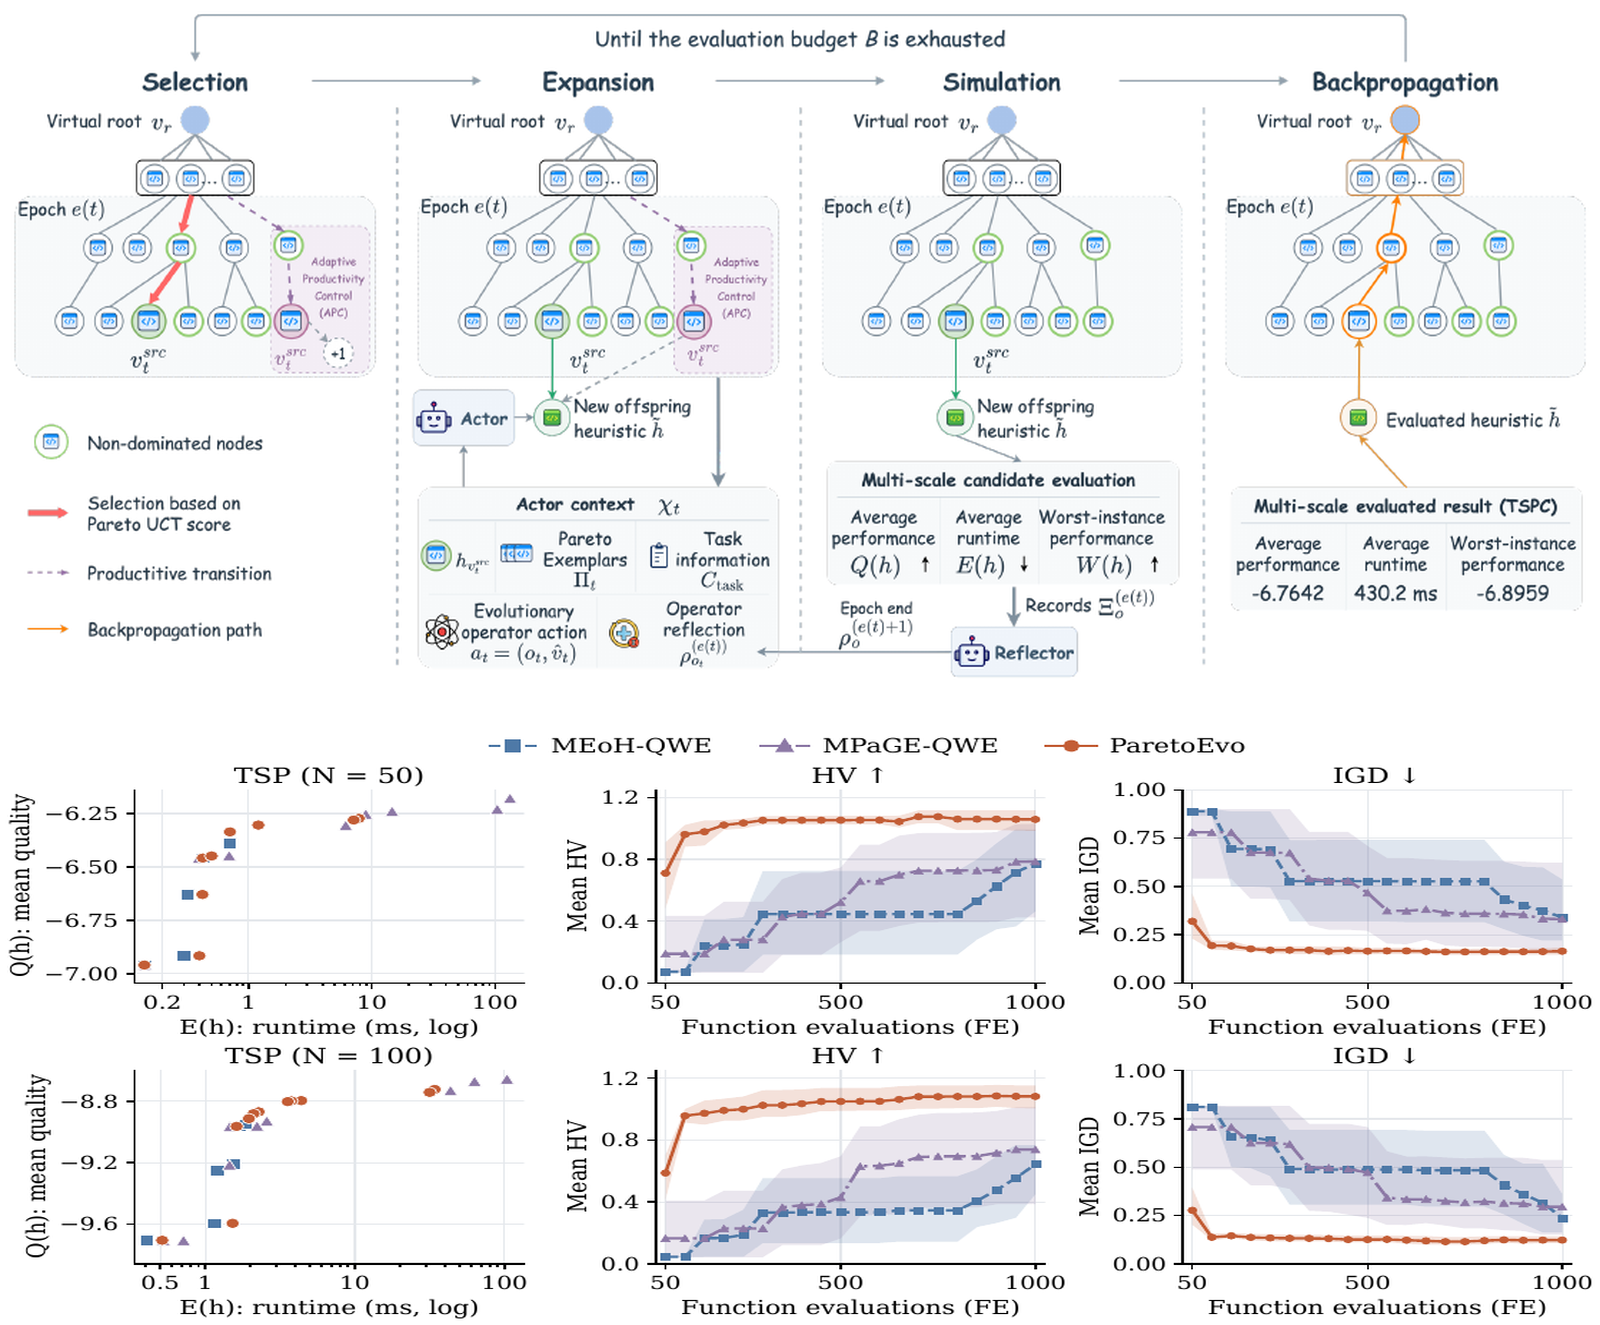
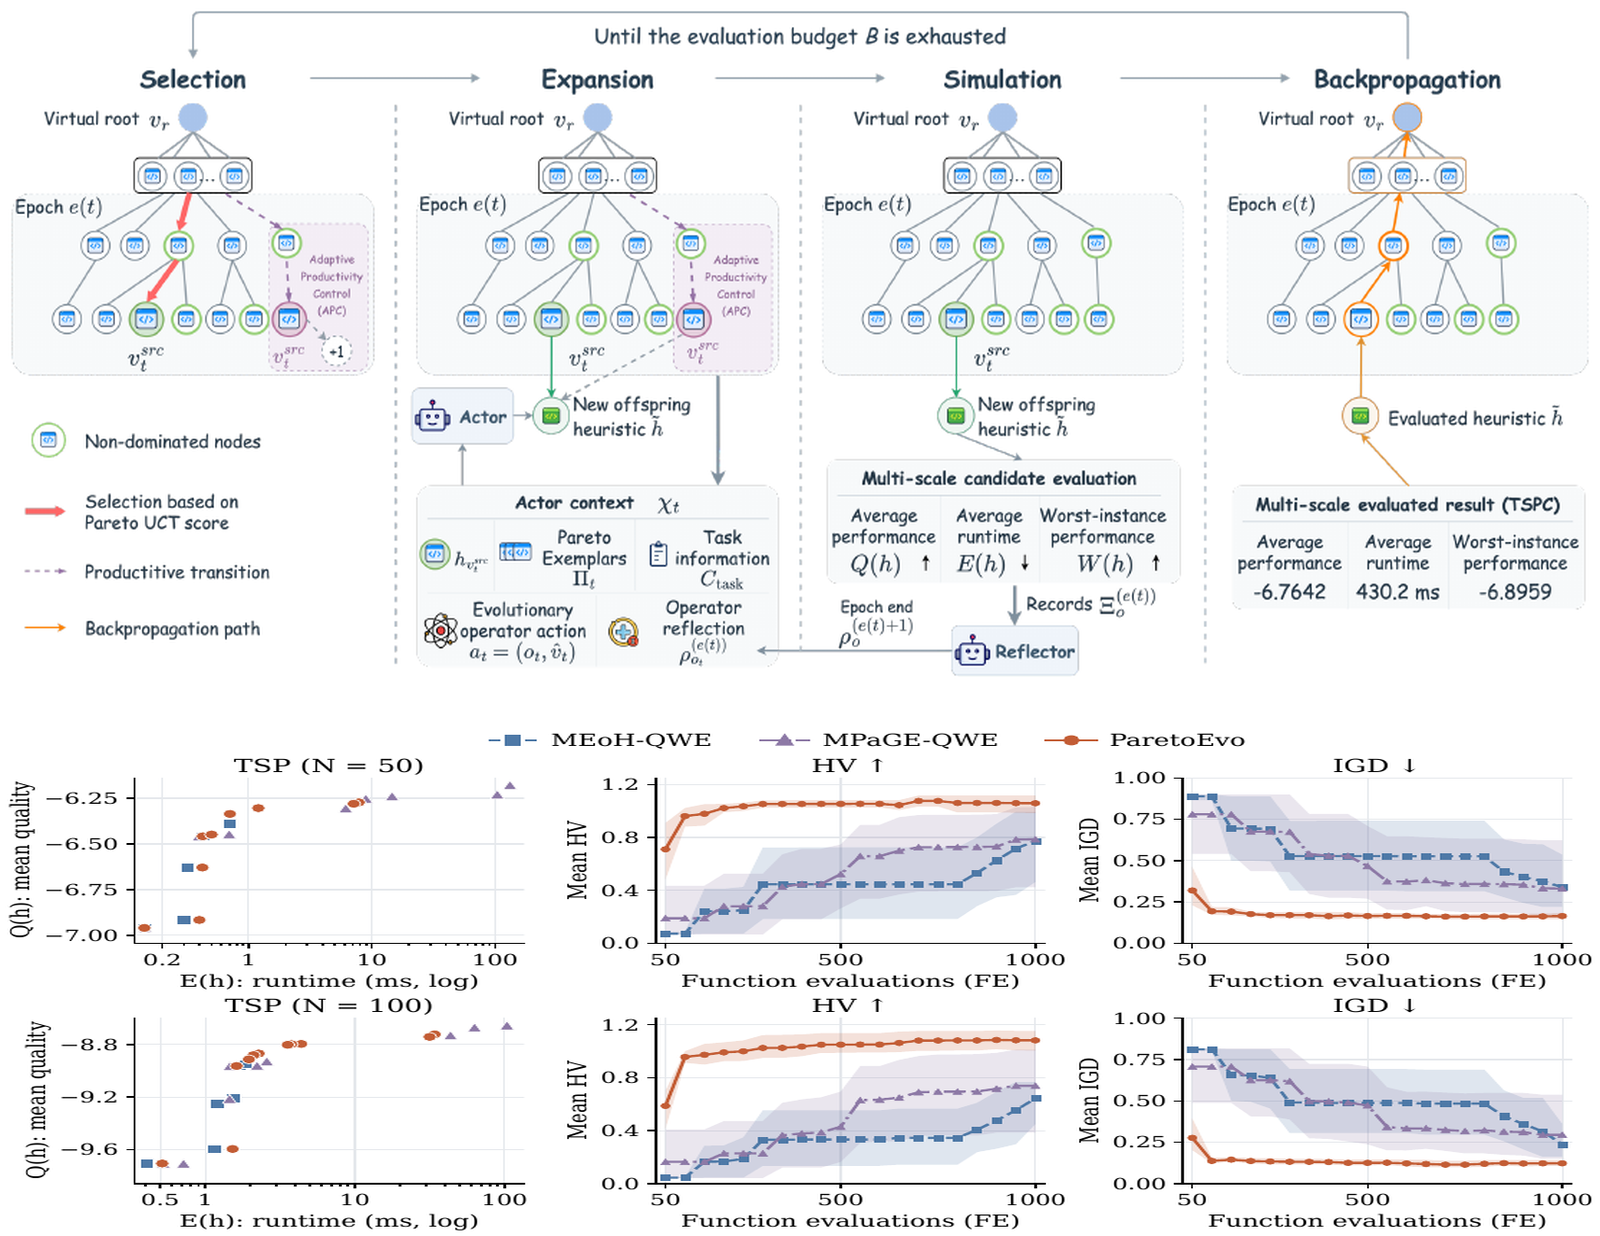
Fix Yong Liang Guan name format; flatten ParetoEvo Fig2

Changed region(s): [[0.0, 0.0, 1.0, 1.0], [0.0, 0.5841, 0.3438, 0.8916], [0.0, 0.7994, 0.3438, 1.0]]

diff --git a/index.html b/index.html
@@ -652,7 +652,7 @@
             <img class="pub-contain" src="./assets/paretoevo_main.png" alt="ParetoEvo: Pareto-guided evolutionary tree search framework and three-objective results on TSP" loading="lazy">
             <div class="pub-main">
               <h3>ParetoEvo: Pareto-Guided Evolutionary Tree Search for Automatic Heuristic Design with LLM Agents</h3>
-              <p class="authors">Haoyun Li, Ming Xiao, YONG LIANG GUAN, <span class="me">Zhiren Gong</span></p>
+              <p class="authors">Haoyun Li, Ming Xiao, Yong Liang Guan, <span class="me">Zhiren Gong</span></p>
               <div class="pub-meta">
                 <span class="venue-badge">Coming soon</span>
                 <div class="pub-links">
